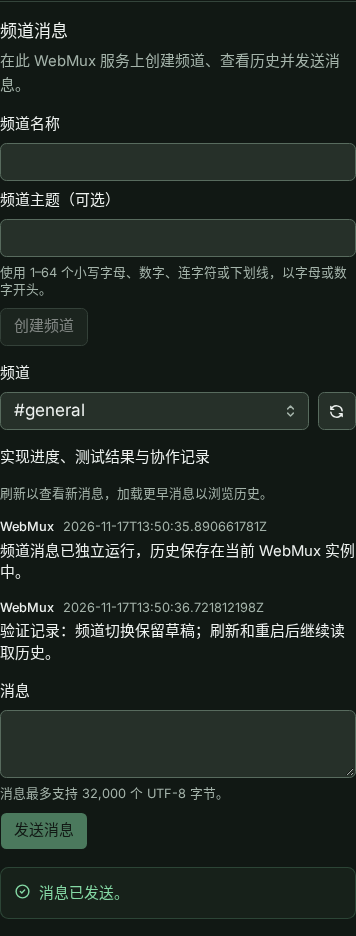
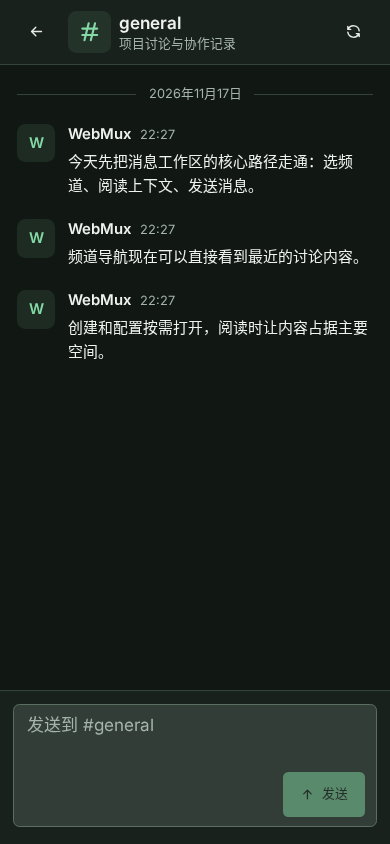
fix(web): 完善消息工作区导航、输入状态与视觉验收

diff --git a/web/src/lib/components/ui/input-group/input-group.svelte b/web/src/lib/components/ui/input-group/input-group.svelte
@@ -15,7 +15,7 @@
   data-slot="input-group"
   role="group"
   class={cn(
-    "group/input-group border-input bg-card dark:bg-input/30 has-[[data-slot=input-group-control]:focus-visible]:border-ring has-[[data-slot=input-group-control]:focus-visible]:ring-ring/50 has-[[data-slot][aria-invalid=true]]:ring-destructive/20 has-[[data-slot][aria-invalid=true]]:border-destructive dark:has-[[data-slot][aria-invalid=true]]:ring-destructive/40 has-disabled:bg-input/50 dark:has-disabled:bg-input/80 h-(--control-default) rounded-md border transition-colors in-data-[slot=combobox-content]:focus-within:border-inherit in-data-[slot=combobox-content]:focus-within:ring-0 has-disabled:opacity-50 has-[[data-slot=input-group-control]:focus-visible]:ring-2 has-[[data-slot][aria-invalid=true]]:ring-1 has-[>[data-align=block-end]]:h-auto has-[>[data-align=block-end]]:flex-col has-[>[data-align=block-start]]:h-auto has-[>[data-align=block-start]]:flex-col has-[>[data-align=block-end]]:[&>input]:pt-3 has-[>[data-align=block-start]]:[&>input]:pb-3 has-[>[data-align=inline-end]]:[&>input]:pr-1.5 has-[>[data-align=inline-start]]:[&>input]:pl-1.5 relative flex w-full min-w-0 items-center outline-none has-[>textarea]:h-auto",
+    "group/input-group border-input bg-card dark:bg-input/30 has-[[data-slot=input-group-control]:focus-visible]:border-ring has-[[data-slot=input-group-control]:focus-visible]:ring-ring/50 has-[[data-slot][aria-invalid=true]]:ring-destructive/20 has-[[data-slot][aria-invalid=true]]:border-destructive dark:has-[[data-slot][aria-invalid=true]]:ring-destructive/40 has-[[data-slot=input-group-control]:disabled]:bg-input/50 dark:has-[[data-slot=input-group-control]:disabled]:bg-input/80 h-(--control-default) rounded-md border transition-colors in-data-[slot=combobox-content]:focus-within:border-inherit in-data-[slot=combobox-content]:focus-within:ring-0 has-[[data-slot=input-group-control]:disabled]:opacity-50 has-[[data-slot=input-group-control]:focus-visible]:ring-2 has-[[data-slot][aria-invalid=true]]:ring-1 has-[>[data-align=block-end]]:h-auto has-[>[data-align=block-end]]:flex-col has-[>[data-align=block-start]]:h-auto has-[>[data-align=block-start]]:flex-col has-[>[data-align=block-end]]:[&>input]:pt-3 has-[>[data-align=block-start]]:[&>input]:pb-3 has-[>[data-align=inline-end]]:[&>input]:pr-1.5 has-[>[data-align=inline-start]]:[&>input]:pl-1.5 relative flex w-full min-w-0 items-center outline-none has-[>textarea]:h-auto",
     className,
   )}
   {...props}

diff --git a/web/stories/DesignSystem.svelte b/web/stories/DesignSystem.svelte
@@ -16,6 +16,7 @@
   import { Button } from "$lib/components/ui/button";
   import { Badge } from "$lib/components/ui/badge";
   import { Input } from "$lib/components/ui/input";
+  import * as InputGroup from "$lib/components/ui/input-group";
   import { Textarea } from "$lib/components/ui/textarea";
   import { Label } from "$lib/components/ui/label";
   import { Switch } from "$lib/components/ui/switch";
@@ -386,6 +387,20 @@
             指令以原文发送，执行前请检查目标会话。
           </p>
         </div>
+        <div class="space-y-2">
+          <Label for="ds-message">消息输入 · 空内容可继续编辑</Label>
+          <InputGroup.Root>
+            <InputGroup.Textarea
+              id="ds-message"
+              placeholder="输入消息…"
+              rows={2}
+            />
+            <InputGroup.Addon align="block-end" class="justify-end"
+              ><Button disabled>发送</Button></InputGroup.Addon
+            >
+          </InputGroup.Root>
+        </div>
+
         <div class="space-y-2">
           <Label for="ds-readonly">只读信息</Label><Input
             id="ds-readonly"

diff --git a/web/src/components/shell/AppSidebar.svelte b/web/src/components/shell/AppSidebar.svelte
@@ -3,6 +3,7 @@
   import IconMessages from "~icons/tabler/messages";
   import IconMessagePlus from "~icons/tabler/message-plus";
   import IconPlus from "~icons/tabler/plus";
+  import { ListButton } from "$lib/components/ui/list-button";
   import { Button } from "$lib/components/ui/button";
   import { ScrollArea } from "$lib/components/ui/scroll-area";
   import { errorMessage } from "../../platform/error";
@@ -245,15 +246,14 @@
   </div>
   {#if featureContributions.entries.messaging}
     <div class="px-2 pt-2">
-      <Button
-        variant="ghost"
-        size="sm-touch"
-        class="w-full justify-start"
+      <ListButton
+        variant="navigation"
+        class="w-full"
         aria-current={route.name === "messaging" ? "page" : undefined}
         onclick={() => openPage("/messages")}
       >
         <IconMessages aria-hidden="true" />{m.messaging_title()}
-      </Button>
+      </ListButton>
     </div>
   {/if}
   {#if !workspace}

diff --git a/web/test/browser/MessagingWorkspace.test.ts b/web/test/browser/MessagingWorkspace.test.ts
@@ -48,6 +48,10 @@ test("reading is the default and channel creation opens only on request", async 
   await expect
     .element(page.getByRole("textbox", { name: "频道名称", exact: true }))
     .not.toBeInTheDocument();
+  expect(
+    getComputedStyle(box().element().closest('[data-slot="input-group"]')!)
+      .opacity,
+  ).toBe("1");
   await page.getByRole("button", { name: "创建频道", exact: true }).click();
   await expect
     .element(page.getByRole("textbox", { name: "频道名称", exact: true }))

diff --git a/web/src/components/shell/AppShell.svelte b/web/src/components/shell/AppShell.svelte
@@ -375,7 +375,7 @@
         size="icon-touch"
         aria-label={m.messaging_title()}
         title={m.messaging_title()}
-        aria-current={route.name === "messaging" ? "page" : undefined}
+        aria-current={route.name === "messaging" ? "true" : undefined}
         ><IconMessages aria-hidden="true" /></Button
       >
     {/if}

diff --git a/web/src/pages/Messaging.svelte b/web/src/pages/Messaging.svelte
@@ -22,7 +22,7 @@
 >
   <header
     class={[
-      "flex min-h-(--app-header-height) shrink-0 items-center gap-2 border-b bg-card px-3 sm:px-5",
+      "flex min-h-(--app-header-height) shrink-0 items-center gap-2 border-b bg-card px-3 py-3 sm:px-5",
       state.showConversation && "max-sm:hidden",
     ]}
   >

diff --git a/docs/user-stories/verification-log-2026-11-17.md b/docs/user-stories/verification-log-2026-11-17.md
@@ -111,7 +111,7 @@
 - 首轮 CI 发现新增正则触发控制字符 lint，已有 attention 用例要求历史查询回写；前者改用可读转义标记匹配，后者改为通过步骤文件触发实时查询，验证应答到达 PTY 后提醒仍保留，并验证重开页面没有额外应答。
 - 修订后运行 `pnpm --dir web lint` 通过；Playwright 按 `opening a session does not clear attention|reopening suppresses` 筛选两个文件，桌面与 iPhone SE 共 4 项通过。
 
-## 独立频道消息（US-S26、US-K18–US-K21）
+## 独立频道消息初版（US-S26、US-K18–US-K21）
 
 ### 行为
 
@@ -129,8 +129,24 @@
 - 功能选择 E2E 的 40 项通过，包含独立 `messaging` 和固定旧版选择；`test/capabilities.test.ts`、`test/wire-contract.test.ts`、`test/wire-arrays.test.ts` 的 437 项通过。
 - `go vet` 对涉及的后端包通过；使用 Go 1.27.4 构建的固定 golangci-lint v2.15.0 检查全仓库，0 issues。
 - 真实隔离服务检查 1280×900、768×800、390×844、375×667、320×568、667×375 六种视口，浅色/深色共 12 组均无页面横向溢出；320px 下长连续文本可换行。
-- [桌面浅色](../images/messaging/desktop-light.png)、[桌面深色](../images/messaging/desktop-dark.png)来自真实消息面板。
-- [平板浅色](../images/messaging/tablet-light.png)、[平板深色](../images/messaging/tablet-dark.png)来自真实消息面板。
-- [手机浅色](../images/messaging/phone-light.png)、[手机深色](../images/messaging/phone-dark.png)来自真实消息面板。
-- [创建与发送录像](../images/messaging/create-send.gif)使用隔离频道，展示创建、键盘 Tab 焦点与 Enter 发送；发送按钮的 focus-visible 已验证。
+- [桌面浅色](../images/messaging/before-desktop-light.png)、[桌面深色](../images/messaging/before-desktop-dark.png)来自真实消息面板。
+- [平板浅色](../images/messaging/before-tablet-light.png)、[平板深色](../images/messaging/before-tablet-dark.png)来自真实消息面板。
+- [手机浅色](../images/messaging/before-phone-light.png)、[手机深色](../images/messaging/before-phone-dark.png)来自真实消息面板。
+- [创建与发送录像](../images/messaging/before-create-send.gif)使用隔离频道，展示创建、键盘 Tab 焦点与 Enter 发送；发送按钮的 focus-visible 已验证。
 - 无头浏览器未验证真实悬停、粗指针与 iOS/Android 真机键盘。
+
+## User-first 指南与消息工作区（US-L09、US-S26）
+
+- 设计系统和 `webmux-ui` skill 以用户目的、任务路径、操作可发现性、上下文连续性和真实反馈为通用指导，替换原有克制风格指导；skill 验证通过。
+- 消息移到侧栏独立入口与 `/messages`，桌面显示频道导航和对话，手机在列表与对话之间进入和返回；原设置入口随迁移移除。
+- 创建频道按需弹出，搜索与最近消息预览辅助定位；底部输入区支持 Enter、换行与输入法组合，失败内容就近重试。
+- 最近频道在当前浏览器按主机保存；当前页面保留频道草稿与阅读位置。日期、本地时间、头像与消息反馈支持阅读。
+- 修复 InputGroup 对禁用发送按钮的整体淡化：输入仍可编辑时保持正常外观，新增真实浏览器回归和 Storybook 示例。
+- `pnpm --dir web check:test`、`check:storybook`、`lint`、`check:arch` 与生产构建通过；架构和依赖检查共 46 项通过。
+- 消息工作区与设置导航的 13 项浏览器测试通过，覆盖默认阅读、创建弹窗、搜索、手机返回、草稿、历史分页、重试身份和输入法保护。
+- 消息与功能选择 E2E 共 46 项通过；消息场景验证重启后恢复最近频道与持久历史、服务端频道预览、Token 与 Origin 拒绝。
+- `go test -race ./internal/clicmd ./internal/messaging ./internal/featureapi ./internal/archtest ./internal/docguard` 通过；固定 golangci-lint 全仓库 0 issues。
+- 同步主分支通用 UI 壳迁移，修复初版合并 CI 中的组件路径失效；补齐 CLI 能力夹具的新功能映射并检查漏登。
+- 最终真实服务检查六种视口、浅深主题共 12 组，无页面横向溢出，输入区和发送按钮均留在视口内；320×568 的创建浮层完整可见。
+- [桌面](../images/messaging/desktop-light.png)、[平板](../images/messaging/tablet-light.png)、[手机对话](../images/messaging/phone-light.png)和[手机频道列表](../images/messaging/phone-list-light.png)为最终工作区。
+- [最终创建与发送录像](../images/messaging/create-send.gif)展示创建弹窗、键盘聚焦与 Enter 发送，正常速度播放；无头验证未覆盖真机键盘、真实悬停或粗指针。

diff --git a/docs/usage/messaging.md b/docs/usage/messaging.md
@@ -38,6 +38,7 @@ enabled = ["messaging"]
 | `GET /api/messaging/channels/{name}/messages`  | 默认最近 50 条，可传 `limit=1..100` 与 `before=<本频道消息 ID>`         |
 | `POST /api/messaging/channels/{name}/messages` | 发送；正文为 `{"text":"hello","clientRequestId":"unique-request-0001"}` |
 
+频道响应的 `latestText`、`latestAt` 与 `messageCount` 是服务端计算的最近消息与数量。
 读取消息按递增 ID 返回，`before` 排除游标本身。ID 以字符串表示；发送请求 ID 为 8–128 个字母、数字、连字符或下划线。
 同一请求 ID 与频道、正文完全一致时返回原消息；改变正文或频道返回 409。频道名称冲突同样返回 409。
 发送者由服务端确定；请求中额外加入发送者字段会返回 400。
